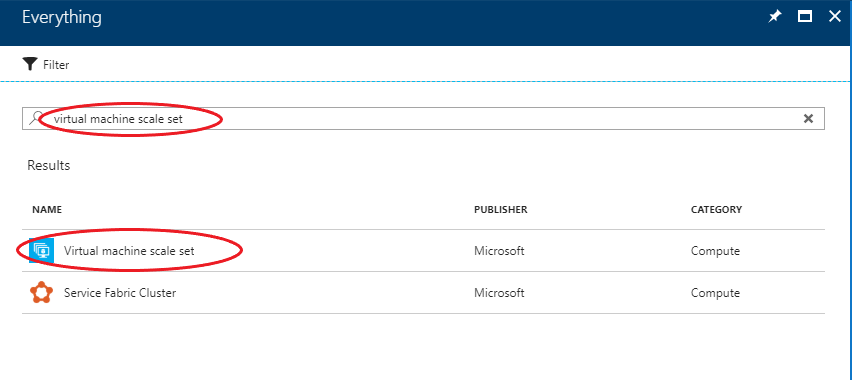
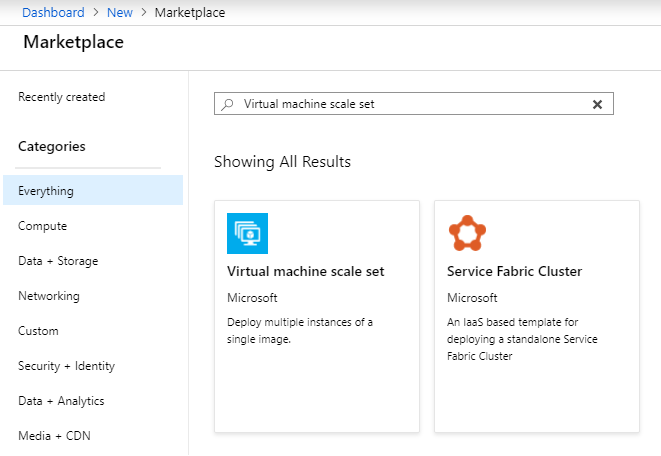
Updated marketplace search step.

diff --git a/articles/azure/azs-how-create-scale-set.md b/articles/azure/azs-how-create-scale-set.md
@@ -36,7 +36,7 @@ To complete the steps in this article, you must have appropriate access to a sub
 
     ![New option in favourites panel](images/azsp_newmenu.png)
 
-3. In the *Everything* blade, search for **'Virtual machine scale set'** and then select it from the search results.
+3. In the *New* blade, search for **'Virtual machine scale set'** and then select it from the search results.
 
     ![Searching for scale set](images/azs-browser-button-scale-set-menu.png)
 
